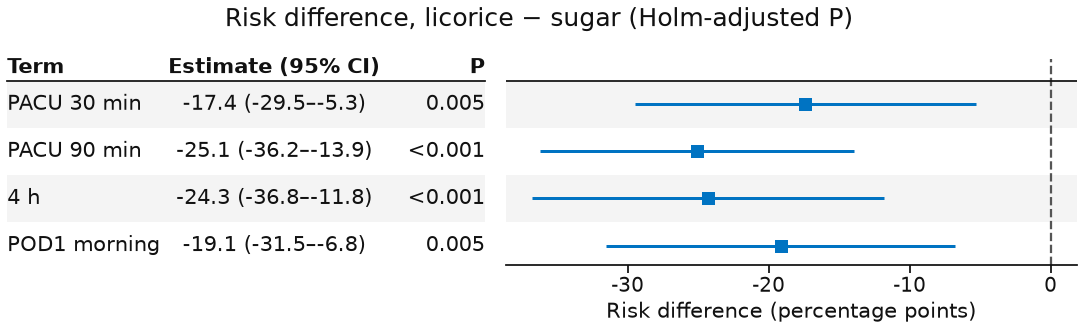
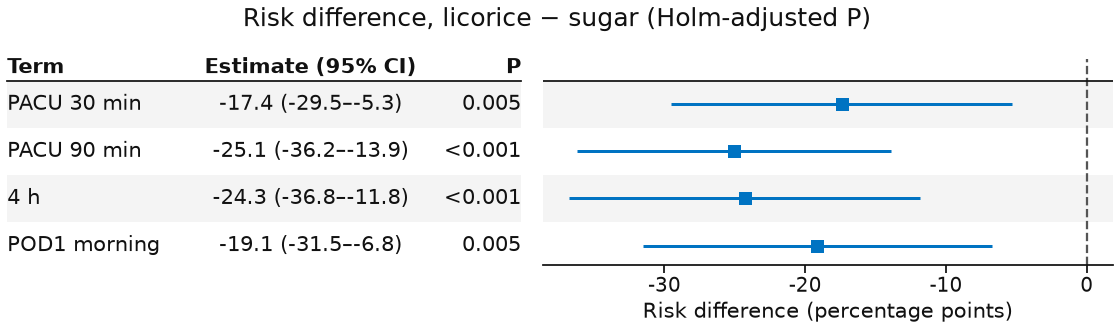
Regenerate the remaining example assets

diff --git a/docs/examples/assets/iptw_nhefs/table1_gt.md b/docs/examples/assets/iptw_nhefs/table1_gt.md
@@ -8,7 +8,7 @@
  #tableone-table1 thead, #tableone-table1 tbody, #tableone-table1 tfoot, #tableone-table1 tr, #tableone-table1 td, #tableone-table1 th { border-style: none; }
  #tableone-table1 tr { background-color: transparent; }
  #tableone-table1 p { margin: 0; padding: 0; }
- #tableone-table1 .gt_table { display: table; border-collapse: collapse; line-height: normal; margin-left: auto; margin-right: auto; color: #333333; font-size: 12px; font-weight: normal; font-style: normal; background-color: #FFFFFF; width: 920px; border-top-style: solid; border-top-width: 2px; border-top-color: #A8A8A8; border-right-style: none; border-right-width: 2px; border-right-color: #D3D3D3; border-bottom-style: solid; border-bottom-width: 2px; border-bottom-color: #A8A8A8; border-left-style: none; border-left-width: 2px; border-left-color: #D3D3D3; }
+ #tableone-table1 .gt_table { display: table; border-collapse: collapse; line-height: normal; margin-left: auto; margin-right: auto; color: #333333; font-size: 12px; font-weight: normal; font-style: normal; background-color: #FFFFFF; width: auto; border-top-style: solid; border-top-width: 2px; border-top-color: #A8A8A8; border-right-style: none; border-right-width: 2px; border-right-color: #D3D3D3; border-bottom-style: solid; border-bottom-width: 2px; border-bottom-color: #A8A8A8; border-left-style: none; border-left-width: 2px; border-left-color: #D3D3D3; }
  #tableone-table1 .gt_caption { padding-top: 4px; padding-bottom: 4px; }
  #tableone-table1 .gt_title { color: #333333; font-size: 125%; font-weight: initial; padding-top: 4px; padding-bottom: 4px; padding-left: 5px; padding-right: 5px; border-bottom-color: #FFFFFF; border-bottom-width: 0; }
  #tableone-table1 .gt_subtitle { color: #333333; font-size: 85%; font-weight: initial; padding-top: 3px; padding-bottom: 5px; padding-left: 5px; padding-right: 5px; border-top-color: #FFFFFF; border-top-width: 0; }
@@ -25,7 +25,7 @@
  #tableone-table1 .gt_empty_group_heading { padding: 0.5px; color: #333333; background-color: #FFFFFF; font-size: 100%; font-weight: initial; border-top-style: solid; border-top-width: 2px; border-top-color: #D3D3D3; border-bottom-style: solid; border-bottom-width: 2px; border-bottom-color: #D3D3D3; vertical-align: middle; }
  #tableone-table1 .gt_from_md> :first-child { margin-top: 0; }
  #tableone-table1 .gt_from_md> :last-child { margin-bottom: 0; }
- #tableone-table1 .gt_row { padding-top: 6px; padding-bottom: 6px; padding-left: 5px; padding-right: 5px; margin: 10px; border-top-style: solid; border-top-width: 1px; border-top-color: #D3D3D3; border-left-style: none; border-left-width: 1px; border-left-color: #D3D3D3; border-right-style: none; border-right-width: 1px; border-right-color: #D3D3D3; vertical-align: middle; overflow-x: hidden; }
+ #tableone-table1 .gt_row { padding-top: 3px; padding-bottom: 3px; padding-left: 5px; padding-right: 5px; margin: 10px; border-top-style: solid; border-top-width: 1px; border-top-color: #D3D3D3; border-left-style: none; border-left-width: 1px; border-left-color: #D3D3D3; border-right-style: none; border-right-width: 1px; border-right-color: #D3D3D3; vertical-align: middle; overflow-x: hidden; }
  #tableone-table1 .gt_stub { color: #333333; background-color: #FFFFFF; font-size: 100%; font-weight: initial; text-transform: inherit; border-right-style: solid; border-right-width: 2px; border-right-color: #D3D3D3; padding-left: 5px; padding-right: 5px; }
  #tableone-table1 .gt_indent_1 { text-indent: 5px; }
  #tableone-table1 .gt_indent_2 { text-indent: calc(5px * 2); }
@@ -75,14 +75,14 @@
     <td class="gt_row gt_center">43.7 (12.0)</td>
     <td class="gt_row gt_center">42.8 (11.8)</td>
     <td class="gt_row gt_center">46.2 (12.2)</td>
-    <td class="gt_row gt_center">-</td>
+    <td class="gt_row gt_center">P&lt;.001</td>
   </tr>
   <tr>
     <td style="font-weight: bold;" class="gt_row gt_left">Sex</td>
     <td class="gt_row gt_center"></td>
     <td class="gt_row gt_center"></td>
     <td class="gt_row gt_center"></td>
-    <td class="gt_row gt_center">-</td>
+    <td class="gt_row gt_center">0.007</td>
   </tr>
   <tr>
     <td class="gt_row gt_left">　0.0</td>
@@ -103,7 +103,7 @@
     <td class="gt_row gt_center"></td>
     <td class="gt_row gt_center"></td>
     <td class="gt_row gt_center"></td>
-    <td class="gt_row gt_center">-</td>
+    <td class="gt_row gt_center">0.004</td>
   </tr>
   <tr>
     <td class="gt_row gt_left">　0.0</td>
@@ -124,7 +124,7 @@
     <td class="gt_row gt_center"></td>
     <td class="gt_row gt_center"></td>
     <td class="gt_row gt_center"></td>
-    <td class="gt_row gt_center">-</td>
+    <td class="gt_row gt_center">0.02</td>
   </tr>
   <tr>
     <td class="gt_row gt_left">　1.0</td>
@@ -166,21 +166,21 @@
     <td class="gt_row gt_center">20.5 (11.8)</td>
     <td class="gt_row gt_center">21.2 (11.5)</td>
     <td class="gt_row gt_center">18.6 (12.4)</td>
-    <td class="gt_row gt_center">-</td>
+    <td class="gt_row gt_center">P&lt;.001</td>
   </tr>
   <tr>
     <td style="font-weight: bold;" class="gt_row gt_left">Years smoked</td>
     <td class="gt_row gt_center">24.6 (12.0)</td>
     <td class="gt_row gt_center">24.1 (11.7)</td>
     <td class="gt_row gt_center">26.0 (12.7)</td>
-    <td class="gt_row gt_center">-</td>
+    <td class="gt_row gt_center">0.005</td>
   </tr>
   <tr>
     <td style="font-weight: bold;" class="gt_row gt_left">Exercise</td>
     <td class="gt_row gt_center"></td>
     <td class="gt_row gt_center"></td>
     <td class="gt_row gt_center"></td>
-    <td class="gt_row gt_center">-</td>
+    <td class="gt_row gt_center">0.11</td>
   </tr>
   <tr>
     <td class="gt_row gt_left">　0.0</td>
@@ -208,7 +208,7 @@
     <td class="gt_row gt_center"></td>
     <td class="gt_row gt_center"></td>
     <td class="gt_row gt_center"></td>
-    <td class="gt_row gt_center">-</td>
+    <td class="gt_row gt_center">0.29</td>
   </tr>
   <tr>
     <td class="gt_row gt_left">　0.0</td>
@@ -236,14 +236,14 @@
     <td class="gt_row gt_center">70.8 (15.3)</td>
     <td class="gt_row gt_center">70.3 (15.2)</td>
     <td class="gt_row gt_center">72.4 (15.6)</td>
-    <td class="gt_row gt_center">-</td>
+    <td class="gt_row gt_center">0.02</td>
   </tr>
   <tr>
     <td style="font-weight: bold;" class="gt_row gt_left">Weight change (kg)</td>
     <td class="gt_row gt_center">2.6 (7.9)</td>
     <td class="gt_row gt_center">2.0 (7.4)</td>
     <td class="gt_row gt_center">4.5 (8.7)</td>
-    <td class="gt_row gt_center">-</td>
+    <td class="gt_row gt_center">P&lt;.001</td>
   </tr>
 </tbody>
 </table>

diff --git a/docs/examples/assets/lmm_pbcseq/table1_gt.md b/docs/examples/assets/lmm_pbcseq/table1_gt.md
@@ -8,7 +8,7 @@
  #tableone-table1 thead, #tableone-table1 tbody, #tableone-table1 tfoot, #tableone-table1 tr, #tableone-table1 td, #tableone-table1 th { border-style: none; }
  #tableone-table1 tr { background-color: transparent; }
  #tableone-table1 p { margin: 0; padding: 0; }
- #tableone-table1 .gt_table { display: table; border-collapse: collapse; line-height: normal; margin-left: auto; margin-right: auto; color: #333333; font-size: 12px; font-weight: normal; font-style: normal; background-color: #FFFFFF; width: 920px; border-top-style: solid; border-top-width: 2px; border-top-color: #A8A8A8; border-right-style: none; border-right-width: 2px; border-right-color: #D3D3D3; border-bottom-style: solid; border-bottom-width: 2px; border-bottom-color: #A8A8A8; border-left-style: none; border-left-width: 2px; border-left-color: #D3D3D3; }
+ #tableone-table1 .gt_table { display: table; border-collapse: collapse; line-height: normal; margin-left: auto; margin-right: auto; color: #333333; font-size: 12px; font-weight: normal; font-style: normal; background-color: #FFFFFF; width: auto; border-top-style: solid; border-top-width: 2px; border-top-color: #A8A8A8; border-right-style: none; border-right-width: 2px; border-right-color: #D3D3D3; border-bottom-style: solid; border-bottom-width: 2px; border-bottom-color: #A8A8A8; border-left-style: none; border-left-width: 2px; border-left-color: #D3D3D3; }
  #tableone-table1 .gt_caption { padding-top: 4px; padding-bottom: 4px; }
  #tableone-table1 .gt_title { color: #333333; font-size: 125%; font-weight: initial; padding-top: 4px; padding-bottom: 4px; padding-left: 5px; padding-right: 5px; border-bottom-color: #FFFFFF; border-bottom-width: 0; }
  #tableone-table1 .gt_subtitle { color: #333333; font-size: 85%; font-weight: initial; padding-top: 3px; padding-bottom: 5px; padding-left: 5px; padding-right: 5px; border-top-color: #FFFFFF; border-top-width: 0; }
@@ -25,7 +25,7 @@
  #tableone-table1 .gt_empty_group_heading { padding: 0.5px; color: #333333; background-color: #FFFFFF; font-size: 100%; font-weight: initial; border-top-style: solid; border-top-width: 2px; border-top-color: #D3D3D3; border-bottom-style: solid; border-bottom-width: 2px; border-bottom-color: #D3D3D3; vertical-align: middle; }
  #tableone-table1 .gt_from_md> :first-child { margin-top: 0; }
  #tableone-table1 .gt_from_md> :last-child { margin-bottom: 0; }
- #tableone-table1 .gt_row { padding-top: 6px; padding-bottom: 6px; padding-left: 5px; padding-right: 5px; margin: 10px; border-top-style: solid; border-top-width: 1px; border-top-color: #D3D3D3; border-left-style: none; border-left-width: 1px; border-left-color: #D3D3D3; border-right-style: none; border-right-width: 1px; border-right-color: #D3D3D3; vertical-align: middle; overflow-x: hidden; }
+ #tableone-table1 .gt_row { padding-top: 3px; padding-bottom: 3px; padding-left: 5px; padding-right: 5px; margin: 10px; border-top-style: solid; border-top-width: 1px; border-top-color: #D3D3D3; border-left-style: none; border-left-width: 1px; border-left-color: #D3D3D3; border-right-style: none; border-right-width: 1px; border-right-color: #D3D3D3; vertical-align: middle; overflow-x: hidden; }
  #tableone-table1 .gt_stub { color: #333333; background-color: #FFFFFF; font-size: 100%; font-weight: initial; text-transform: inherit; border-right-style: solid; border-right-width: 2px; border-right-color: #D3D3D3; padding-left: 5px; padding-right: 5px; }
  #tableone-table1 .gt_indent_1 { text-indent: 5px; }
  #tableone-table1 .gt_indent_2 { text-indent: calc(5px * 2); }
@@ -100,23 +100,23 @@
   </tr>
   <tr>
     <td style="font-weight: bold;" class="gt_row gt_left">Baseline bilirubin</td>
-    <td class="gt_row gt_center">1.4 [0.8,3.4]</td>
-    <td class="gt_row gt_center">1.4 [0.8,3.2]</td>
-    <td class="gt_row gt_center">1.3 [0.7,3.6]</td>
+    <td class="gt_row gt_center">1.4 [0.8, 3.4]</td>
+    <td class="gt_row gt_center">1.4 [0.8, 3.2]</td>
+    <td class="gt_row gt_center">1.3 [0.7, 3.6]</td>
     <td class="gt_row gt_center">0.79</td>
   </tr>
   <tr>
     <td style="font-weight: bold;" class="gt_row gt_left">Baseline albumin</td>
-    <td class="gt_row gt_center">3.6 [3.3,3.8]</td>
-    <td class="gt_row gt_center">3.6 [3.2,3.8]</td>
-    <td class="gt_row gt_center">3.5 [3.3,3.8]</td>
+    <td class="gt_row gt_center">3.6 [3.3, 3.8]</td>
+    <td class="gt_row gt_center">3.6 [3.2, 3.8]</td>
+    <td class="gt_row gt_center">3.5 [3.3, 3.8]</td>
     <td class="gt_row gt_center">0.95</td>
   </tr>
   <tr>
     <td style="font-weight: bold;" class="gt_row gt_left">Baseline day</td>
-    <td class="gt_row gt_center">0.0 [0.0,0.0]</td>
-    <td class="gt_row gt_center">0.0 [0.0,0.0]</td>
-    <td class="gt_row gt_center">0.0 [0.0,0.0]</td>
+    <td class="gt_row gt_center">0.0 [0.0, 0.0]</td>
+    <td class="gt_row gt_center">0.0 [0.0, 0.0]</td>
+    <td class="gt_row gt_center">0.0 [0.0, 0.0]</td>
     <td class="gt_row gt_center">-</td>
   </tr>
 </tbody>

diff --git a/docs/examples/assets/htest_licorice/table1_gt.md b/docs/examples/assets/htest_licorice/table1_gt.md
@@ -8,7 +8,7 @@
  #tableone-table1 thead, #tableone-table1 tbody, #tableone-table1 tfoot, #tableone-table1 tr, #tableone-table1 td, #tableone-table1 th { border-style: none; }
  #tableone-table1 tr { background-color: transparent; }
  #tableone-table1 p { margin: 0; padding: 0; }
- #tableone-table1 .gt_table { display: table; border-collapse: collapse; line-height: normal; margin-left: auto; margin-right: auto; color: #333333; font-size: 12px; font-weight: normal; font-style: normal; background-color: #FFFFFF; width: 920px; border-top-style: solid; border-top-width: 2px; border-top-color: #A8A8A8; border-right-style: none; border-right-width: 2px; border-right-color: #D3D3D3; border-bottom-style: solid; border-bottom-width: 2px; border-bottom-color: #A8A8A8; border-left-style: none; border-left-width: 2px; border-left-color: #D3D3D3; }
+ #tableone-table1 .gt_table { display: table; border-collapse: collapse; line-height: normal; margin-left: auto; margin-right: auto; color: #333333; font-size: 12px; font-weight: normal; font-style: normal; background-color: #FFFFFF; width: auto; border-top-style: solid; border-top-width: 2px; border-top-color: #A8A8A8; border-right-style: none; border-right-width: 2px; border-right-color: #D3D3D3; border-bottom-style: solid; border-bottom-width: 2px; border-bottom-color: #A8A8A8; border-left-style: none; border-left-width: 2px; border-left-color: #D3D3D3; }
  #tableone-table1 .gt_caption { padding-top: 4px; padding-bottom: 4px; }
  #tableone-table1 .gt_title { color: #333333; font-size: 125%; font-weight: initial; padding-top: 4px; padding-bottom: 4px; padding-left: 5px; padding-right: 5px; border-bottom-color: #FFFFFF; border-bottom-width: 0; }
  #tableone-table1 .gt_subtitle { color: #333333; font-size: 85%; font-weight: initial; padding-top: 3px; padding-bottom: 5px; padding-left: 5px; padding-right: 5px; border-top-color: #FFFFFF; border-top-width: 0; }
@@ -25,7 +25,7 @@
  #tableone-table1 .gt_empty_group_heading { padding: 0.5px; color: #333333; background-color: #FFFFFF; font-size: 100%; font-weight: initial; border-top-style: solid; border-top-width: 2px; border-top-color: #D3D3D3; border-bottom-style: solid; border-bottom-width: 2px; border-bottom-color: #D3D3D3; vertical-align: middle; }
  #tableone-table1 .gt_from_md> :first-child { margin-top: 0; }
  #tableone-table1 .gt_from_md> :last-child { margin-bottom: 0; }
- #tableone-table1 .gt_row { padding-top: 6px; padding-bottom: 6px; padding-left: 5px; padding-right: 5px; margin: 10px; border-top-style: solid; border-top-width: 1px; border-top-color: #D3D3D3; border-left-style: none; border-left-width: 1px; border-left-color: #D3D3D3; border-right-style: none; border-right-width: 1px; border-right-color: #D3D3D3; vertical-align: middle; overflow-x: hidden; }
+ #tableone-table1 .gt_row { padding-top: 3px; padding-bottom: 3px; padding-left: 5px; padding-right: 5px; margin: 10px; border-top-style: solid; border-top-width: 1px; border-top-color: #D3D3D3; border-left-style: none; border-left-width: 1px; border-left-color: #D3D3D3; border-right-style: none; border-right-width: 1px; border-right-color: #D3D3D3; vertical-align: middle; overflow-x: hidden; }
  #tableone-table1 .gt_stub { color: #333333; background-color: #FFFFFF; font-size: 100%; font-weight: initial; text-transform: inherit; border-right-style: solid; border-right-width: 2px; border-right-color: #D3D3D3; padding-left: 5px; padding-right: 5px; }
  #tableone-table1 .gt_indent_1 { text-indent: 5px; }
  #tableone-table1 .gt_indent_2 { text-indent: calc(5px * 2); }
